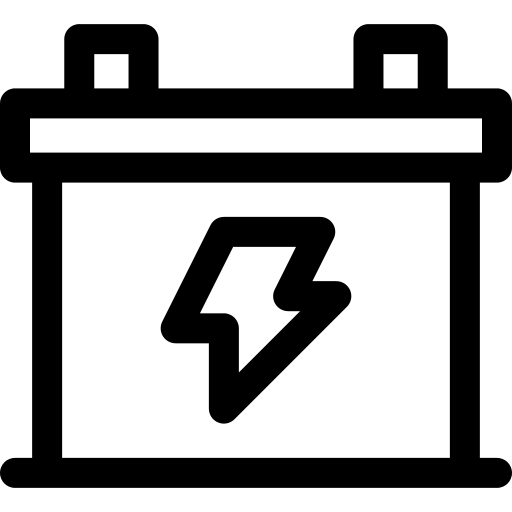
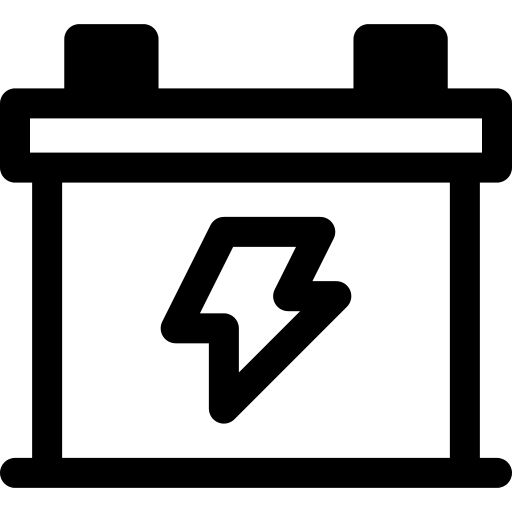
made battery terminals solid color, adjusted the spacing for the bind properties for the wire, and change the spelling of backgroundMusic.wav in music player because it didn't match the file spelling

Changed region(s): [[0.75, 0.0938, 0.8438, 0.1875], [0.1562, 0.0938, 0.25, 0.1875]]

diff --git a/LogicLand/src/application/resources/sandboxController.java b/LogicLand/src/application/resources/sandboxController.java
@@ -587,10 +587,10 @@ public class sandboxController implements Initializable{
 		connectLine.setStrokeWidth(5);
 		
 		// Set the bindings. These four lines are Kinda copied code. Need to document or change.
-		connectLine.startXProperty().bind(outputTerminal.layoutXProperty().add(outputPane.layoutXProperty().add(outputTerminal.getBoundsInParent().getWidth() / 2)));
+		connectLine.startXProperty().bind(outputTerminal.layoutXProperty().add(outputPane.layoutXProperty().add(outputTerminal.getBoundsInParent().getWidth() / 2 )));
 		connectLine.startYProperty().bind(outputTerminal.layoutYProperty().add(outputPane.layoutYProperty().add(outputTerminal.getBoundsInParent().getHeight() / 2)));
 
-		connectLine.endXProperty().bind(inputTerminal.layoutXProperty().add(inputPane.layoutXProperty().add(inputTerminal.getBoundsInParent().getWidth() / 2)));
+		connectLine.endXProperty().bind(inputTerminal.layoutXProperty().add(inputPane.layoutXProperty().add(inputTerminal.getBoundsInParent().getWidth() / 4)));
 		connectLine.endYProperty().bind(inputTerminal.layoutYProperty().add(inputPane.layoutYProperty().add(inputTerminal.getBoundsInParent().getHeight() / 2)));
 		
 		connectLine.getProperties().put("connection1",outputTerminal);

diff --git a/LogicLand/src/application/MusicPlayer.java b/LogicLand/src/application/MusicPlayer.java
@@ -14,7 +14,7 @@ public class MusicPlayer {
     
     // link to copyright free music https://uppbeat.io/track/sulyya/mirthaflare
     // Path to the default background music
-    private static final String DEFAULT_BACKGROUND_MUSIC = "src/application/resources/sounds/backgroundmusic.wav";
+    private static final String DEFAULT_BACKGROUND_MUSIC = "src/application/resources/sounds/backgroundMusic.wav";
     // Path to the default level music
     private static final String DEFAULT_LEVEL_MUSIC = "src/application/resources/sounds/levelMusic.wav";
 
